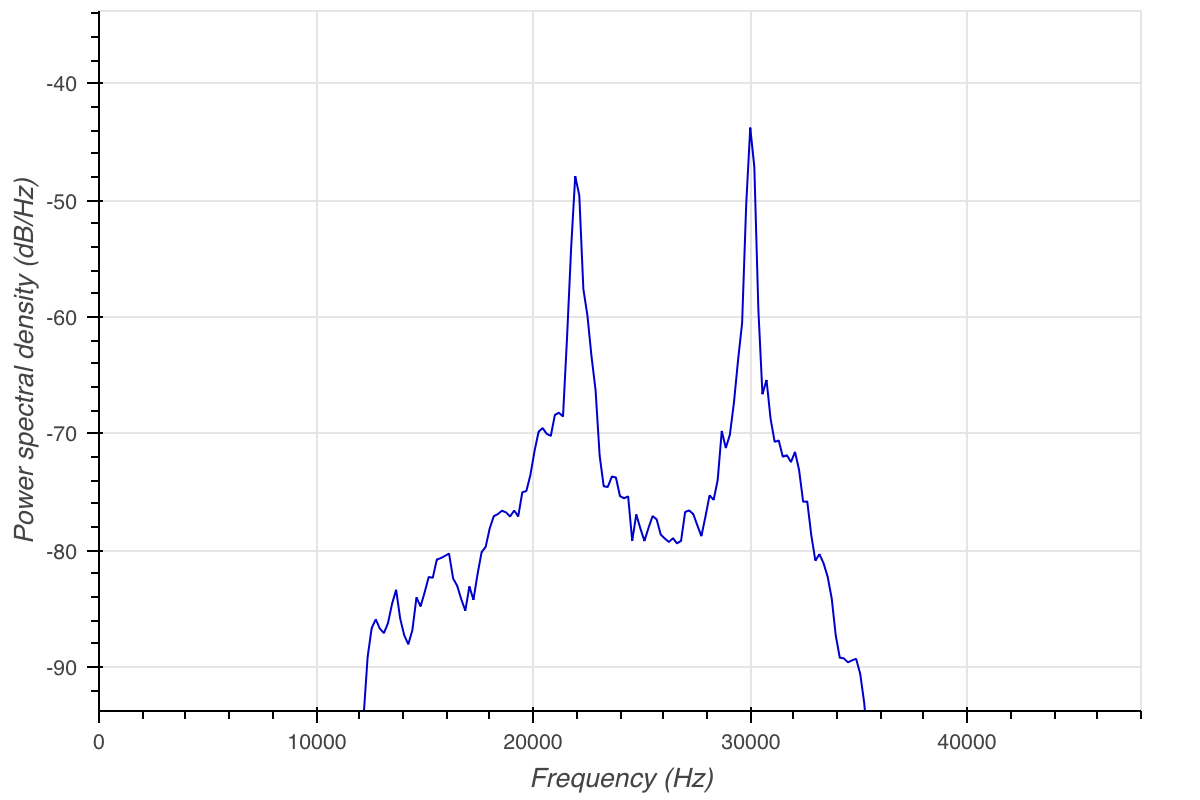
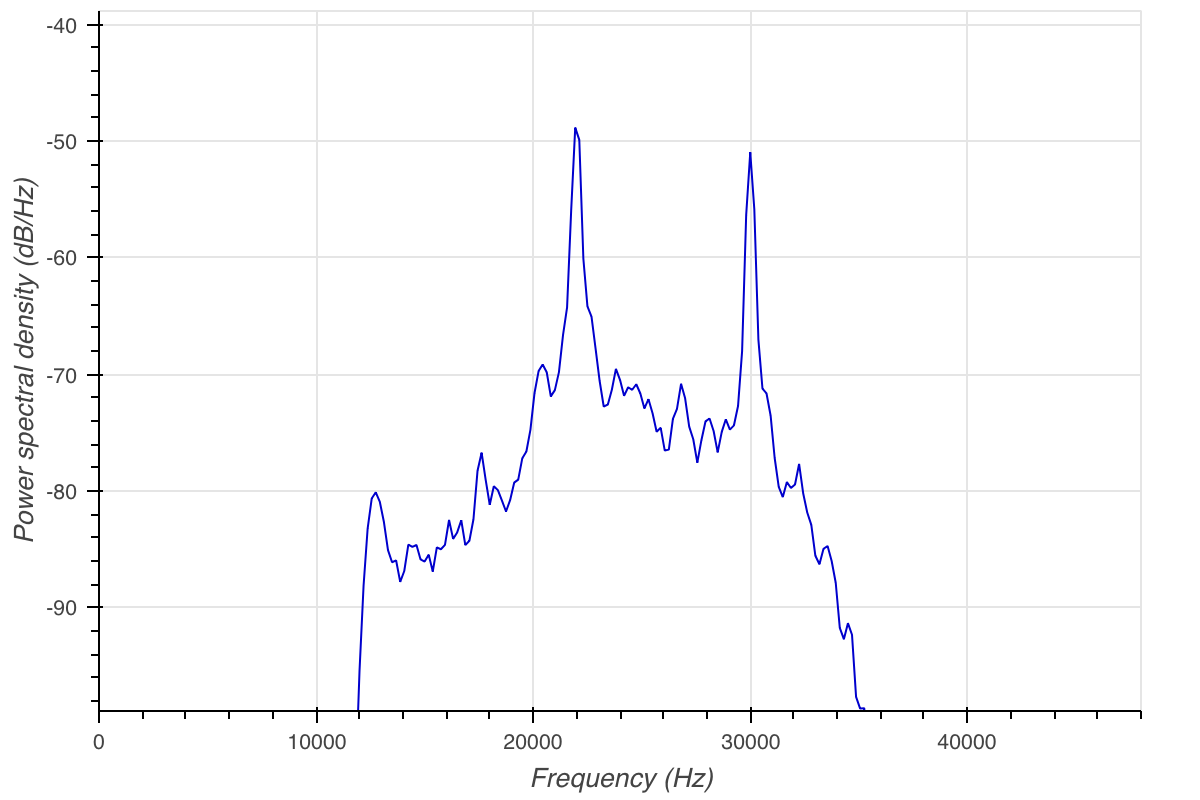
Updated blog based on the latest notebook

diff --git a/_posts/2018-09-27-AUV-to-transponder Range Estimation Application using UnetStack.md b/_posts/2018-09-27-AUV-to-transponder Range Estimation Application using UnetStack.md
@@ -1,27 +1,19 @@
----
-layout: post
-comments: true
-title: AUV-to-transponder range estimation application using UnetStack
-date: 27/9/2018
-author: Manu Ignatius
-categories: howto
-feature-img: "assets/img/transponder.jpg"
-thumbnail: "assets/img/transponder.jpg"
-tags: [howto, modems, localization, agents, ranging, algorithm]
----
+
+## AUV-to-transponder range estimation application using UnetStack
 
 It is a common practice to attach a transponder to various underwater assets (both static and mobile) for short and long term field deployments. These transponders can act as a beacon that can be utilized for localization. An underwater vehicle (e.g. AUV, ROV) will be able to do sequential ranging to find the location of the transponder during a search and rescue operation.
 
 Normally, specialized transmitters are required to send a signal to these transponders to trigger a response. However, due to the software defined nature of Subnero modems, it is fairly easy to develop an application that will query a transponder and calculate the range information.
 
 
-In this post, we showcase a fully functional transponder ranging application used to ping an [Applied Acoustics 219A](https://www.ashtead-technology.com/rental-equipment/aa-219-micro-beacon/){:target="_blank"} transponder and calculate the range to it from the recorded signal. This work has been presented in [_M. Chitre, R. Bhatnagar, M. Ignatius, and S. Suman, “Baseband signal processing with UnetStack,” in Underwater Communications Networking (UComms 2014), (Sestri Levante, Italy), September 2014. (Invited)_](http://arl.nus.edu.sg/twiki6/pub/ARL/BibEntries/sdmodem.pdf){:target="_blank"}.
+In this post, we showcase a fully functional transponder ranging application used to ping an [Applied Acoustics 219A](https://www.ashtead-technology.com/rental-equipment/aa-219-micro-beacon/) transponder and calculate the range to it from the recorded signal. This work has been presented in [_M. Chitre, R. Bhatnagar, M. Ignatius, and S. Suman, “Baseband signal processing with UnetStack,” in Underwater Communications Networking (UComms 2014), (Sestri Levante, Italy), September 2014. (Invited)_](http://arl.nus.edu.sg/twiki6/pub/ARL/BibEntries/sdmodem.pdf).
 
-An Applied Acoustics 219A transponder is set to receive a 22 kHz tonal. We send a 5 ms long 22 kHz pulse without preamble (preambleID set to 0) using a `TxBasebandSignalReq` from UnetStack's _baseband_ service. This will trigger a response at 30.5 kHz after a fixed delay of 30 ms. We also initiate a 500 ms long baseband signal recording using `RecordBasebandSignalReq` to make sure the modem records long enough to have the response from the pinger for a range of 300m.
+An Applied Acoustics 219A transponder is set to receive a 22 kHz tonal. We send a 5 ms long 22 kHz pulse without preamble (preambleID set to 0) using a `TxBasebandSignalReq` from UnetStack's _baseband_ service. This will trigger a response at 30 kHz after a fixed delay of 30 ms. We also initiate a 500 ms long baseband signal recording using `RecordBasebandSignalReq` to make sure the modem records long enough to have the response from the pinger.
 
 The captured signal is then Hilbert transformed to do envelop detection. We use thresholding to find the start of the received signal. We also retrieves the `txTime` from `txntf`. Using these two timings, we calculate the range to the transponder.
 
 This application is developed using Jupyter Notebook, in Python using the UnetPy framework.
+
 
 ```python
 import numpy as np
@@ -33,24 +25,32 @@ from unetpy import *
 ### Connect to the modem
 Using the unetpy gateway, connect to the modem's IP address and subscribe to `physical` agent.
 
+
 ```python
-modem = UnetGateway('192.168.1.75')
+modem = UnetGateway('192.168.1.74')
 ```
+
 
 ```python
 phy = modem.agent('phy')
 modem.subscribe(phy)
 ```
 
-### Set passband block count & signal power level
+### Set passband block count, signal power level and other constants
 Before starting passband recording, we need to set the passband block size using `phy.pbsblk` parameter. (Passband block size is the number of samples in a block of recorded passband data)
 
 
 ```python
-txFs = 192000
-sigLen = 5e-3
-phy.pbsblk = 45056
-phy.signalPowerLevel = -6
+txFs = 192000              # Sa/s
+sigLen = 5e-3              # s
+timeout = 5000             # ms
+threshold = 0.3
+soundSpeed = 1520          # m/s
+triggerSig = 22000         # Hz
+transponderDelay = 30e-3   # s
+
+phy.pbsblk = 45056         # Sa
+phy.signalPowerLevel = -6  # dB
 ```
 
 ### Flush the modem to clear its internal buffers
@@ -63,10 +63,11 @@ def flush_modem():
 ```
 
 ### Generate the signal to be transmitted
-We use the [`cw`](https://arlpy.readthedocs.io/en/latest/signal.html#arlpy.signal.cw){:target="_blank"} function from arlpy signal processing toolbox to generate a 5 ms long 22 kHz tonal.
+We use the [`cw`](https://arlpy.readthedocs.io/en/latest/signal.html#arlpy.signal.cw) function from arlpy signal processing toolbox to generate a 5 ms long 22 kHz tonal.
+
 
 ```python
-tx = asig.cw(22000, sigLen, txFs).tolist()
+tx = asig.cw(triggerSig, sigLen, txFs).tolist()
 ```
 
 ### Start baseband signal reception and transmit the signal
@@ -77,16 +78,17 @@ We start a passband recording by setting `phy.pbscnt` to 1. This will start the 
 flush_modem()
 phy.pbscnt = 1
 phy << org_arl_unet_bb.TxBasebandSignalReq(signal=tx, fc=0)
-rx = modem.receive(org_arl_unet_bb.RxBasebandSignalNtf, 5000)
+rx = modem.receive(org_arl_unet_bb.RxBasebandSignalNtf, timeout)
 rxS = rx.signal
 rxFs = rx.fs
-txntf = modem.receive(timeout=5000)
+txntf = modem.receive(timeout=timeout)
 txTime = txntf.txTime
 rxTime = rx.rxTime
 ```
 
 ### Plot the recorded signal & PSD
 Using arlpy's plotting utilities, we plot the time series and marked `txTime`. Note that we can see the transmitted data (saturated) in the recoded passband signal time series. In the PSD, we can see both transmission (22 kHz) and received tonal (30 kHz) clearly.
+
 
 ```python
 plot(rxS, fs=rxFs, maxpts=rxFs, hold=True)
@@ -96,72 +98,63 @@ vlines(txStart, color='orange')
 
 ![img](../assets/img/bokeh_plot_1.png)
 
+
+
 ```python
 psd(rxS, fs=rxFs)
 ```
+
 ![img](../assets/img/bokeh_plot_2.png)
 
-### Identifying receive time
-The next step is to identify the first sample from the received signal. For this, we shift the received signal by txTime + sigLen, generate a Hilbert envelop of the remaining signal and do a threshold detection. Both `txStart` and `rxStart` is marked in the plot.
 
-The Hilbert envelop is generated using the [envelop](https://arlpy.readthedocs.io/en/latest/signal.html#arlpy.signal.envelope){:target="_blank"} function from arlpy signal processing toolbox.
+
+### Identifying receive time
+The next step is to identify the first sample from the received signal. For this, we shift the start of the received signal by txStart + transponderDelay, generate a Hilbert envelop of the remaining signal and do a threshold detection. Both `txStart` and `rxStart` is marked in the plot.
+
+The Hilbert envelop is generated using the [envelop](https://arlpy.readthedocs.io/en/latest/signal.html#arlpy.signal.envelope) function from arlpy signal processing toolbox.
+
 
 ```python
-shift = (txStart+sigLen*3)
-rxShifted = rxS[int(shift*rxFs):]
-env = asig.envelope(rxShifted)
-threshold = 0.9
-edge = np.flatnonzero((env[:-1] < threshold) & (env[1:] > threshold))+1
+start = txStart+transponderDelay
+newRx = rxS[int(start*rxFs):]
+env = asig.envelope(newRx)
+edge = np.argwhere(env>threshold)[0,0]
 ```
+
+
+```python
+plot(env, fs=rxFs, maxpts = rxFs, hold=True)
+vlines(edge/rxFs, color='orange')
+```
+![img](../assets/img/bokeh_plot_3.png)
+
 
 ```python
 plot(rxS, fs=rxFs, maxpts = rxFs, hold=True)
-rxStart=(shift+edge[0]/rxFs)
+rxStart=(start+edge/rxFs)
 vlines(txStart, hold=True, color='orange')
 vlines(rxStart, color='purple')
 ```
 
-![img](../assets/img/bokeh_plot_3.png)
-
+![img](../assets/img/bokeh_plot_4.png)
 ### Calculating the range
-Now that we have the `txTime` and `rxTime`, we can calculate the range. For the purpose of this blog, this test was conducted in a 2.5m x 2m x 2m water tank.
+Now that we have the `txTime` and `rxTime`, we can calculate the range. This test was conducted at Adriatic sea, during BTS 2018.
 
+![img](../assets/img/testing.jpg)
 
 ```python
 print ('Tx Start = ', txStart, 's')
 print ('Rx Start = ', rxStart, 's')
-travelTime = rxStart-txStart-30e-3
+travelTime = rxStart-txStart-transponderDelay
 print ('Round trip time = ', travelTime, 's')
-soundSpeed = 1536
-print ("Range = {0:.2f} m".format(soundSpeed * travelTime))
+print ("Range = {0:.2f} m".format(soundSpeed * travelTime/2))
 ```
 
-    Tx Start =  0.081 s
-    Rx Start =  0.11221875 s
-    Round trip time =  0.0012187500000000046 s
-    Range = 1.87 m
+    Tx Start =  0.051419 s
+    Rx Start =  0.09109608333333333 s
+    Round trip time =  0.00967708333333333 s
+    Range = 7.35 m
 
-
-### Appendix: Behind the scenes
-To look at what is happening behind the scenes, we plot the shifted signal, PSD of the shifted signal and the envelop of the shifted signal.
-
-```python
-plot(rxShifted, fs=rxFs, maxpts = rxFs)
-```
-![img](../assets/img/bokeh_plot_4.png)
-
-```python
-psd(rxS, fs=rxFs, hold=True)
-psd(rxShifted, fs=rxFs)
-```
-![img](../assets/img/bokeh_plot_5.png)
-
-```python
-plot(env, fs=rxFs, maxpts = rxFs, hold=True)
-vlines(edge[0]/rxFs, color='orange')
-```
-
-![img](../assets/img/bokeh_plot_6.png)
 
 
 ```python
